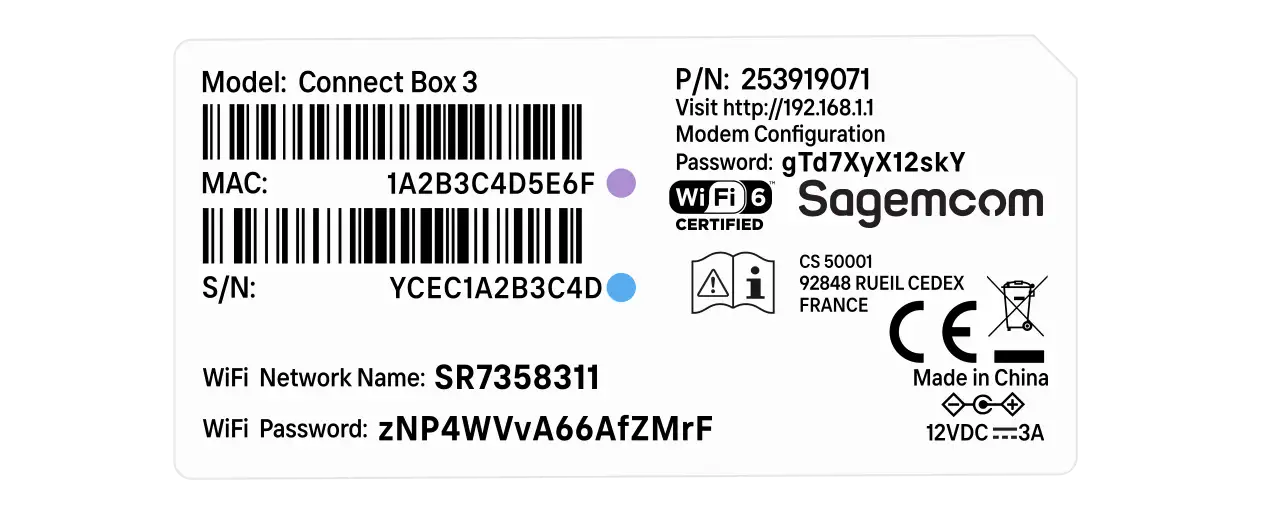
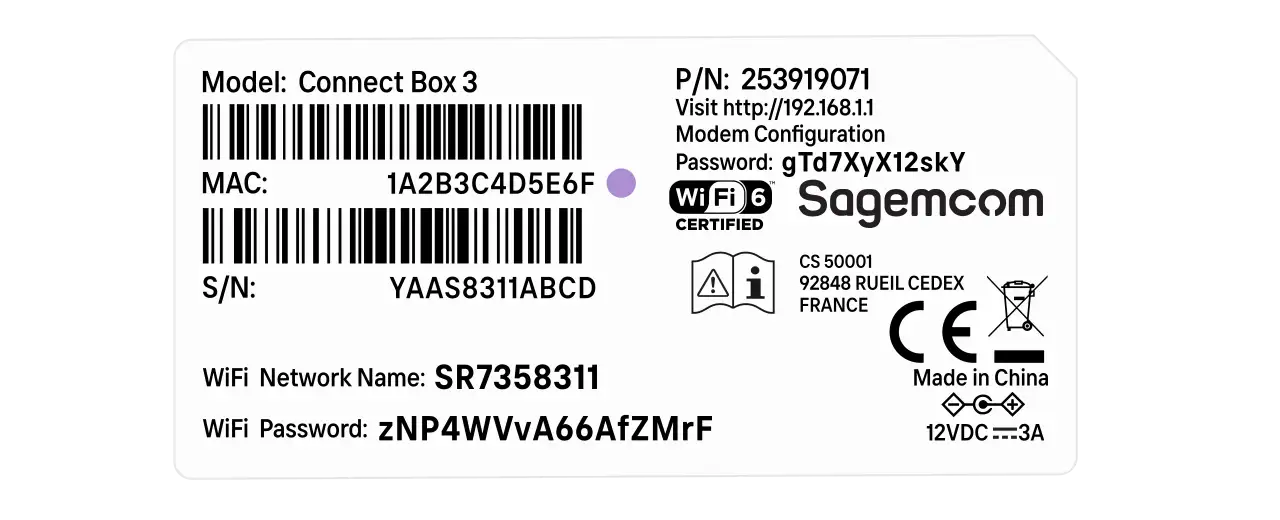
post 29: add Connect Box 3 Fiber

Changed region(s): [[0.3125, 0.5231, 0.5, 0.5846]]

diff --git a/docs/posts/masquerade-as-the-sunrise-connect-box-3-with-the-fs-xgs-onu-25-20ni.md b/docs/posts/masquerade-as-the-sunrise-connect-box-3-with-the-fs-xgs-onu-25-20ni.md
@@ -41,10 +41,9 @@ operator: Sunrise
     :   No. It is an SFU ONT (not an HGU) that converts Ethernet to PON; it does not provide Layer 7 gateway functions
         (NAT, DHCP, etc.) A separate gateway/router is required for internet access.
 
-    __Is the serial number the same as on the Home Fiber Box 2?__
+    __Does the XGS-ONU-25-20NI support VEIP?__
 
-    :   No. On the Home Fiber Box 2 the OLT authenticates the `SMBS`&hellip; value and not the `YCEC`&hellip; one. On the
-        {{ page.meta.ont }}, the value to use is the one labelled __ONU Serial Number__, which begins `YCEC`&hellip;.
+    :   No. The XGS-ONU-25-20NI does not support VEIP and will ONLY authenticate with an OLT over PPTP.
 
 ## Purchase Hardware
 
@@ -82,11 +81,17 @@ To masquerade as the {{ page.meta.ont }}, you will need its __ONU Serial Number_
 __ONU Serial Number__ is shown on the __Info__ page of its web interface at `http://192.168.1.1`, and the WAN MAC on its
 status page.
 
-!!! tip "The ONU Serial Number may not be labelled"
-    The label below only has `MAC:` and `S/N:` fields, and its `S/N:` begins `YAAS`&hellip;. Do not confuse it with the
-    __ONU Serial Number__ from the __Info__ page, which begins `YCEC`&hellip;.
+=== "Mislabelled Serial"
 
-![{{ page.meta.ont }} label]({{ page.meta.slug }}/{{ page.meta.ont | lower | replace(" ", "_") }}_label.webp){ class="nolightbox" }
+    !!! tip "The ONU Serial Number may not be labelled"
+        The label below only has `MAC:` and `S/N:` fields, and its `S/N:` begins `YAAS`&hellip;. Do not confuse it with the
+        __ONU Serial Number__ from the __Info__ page, which begins `YCEC`&hellip;.
+
+    ![{{ page.meta.ont }} label]({{ page.meta.slug }}/{{ page.meta.ont | lower | replace(" ", "_") }}_label.webp){ class="nolightbox" }
+
+=== "SMBS Serial"
+
+    ![{{ page.meta.ont }} label]({{ page.meta.slug }}/{{ page.meta.ont | lower | replace(" ", "_") }}_label_alt.webp){ class="nolightbox" }
 
 1.  Log in over telnet and open the `misc` menu.
 
@@ -102,14 +107,25 @@ status page.
 
 2.  Set the serial number and the [Registration ID].
 
-    !!! note "Reminder"
-        Replace `YCEC1A2B3C4D` and `314132423343344435453646` with the values from your own {{ page.meta.ont }}.
+    === "Mislablled Serial"
 
-    ``` sh
-    #ONT/system/misc> eqsn set "YCEC1A2B3C4D"
-    #ONT/system/misc> xgspon_regid set 314132423343344435453646
-    ```
+        !!! note "Reminder"
+            Replace `YCEC1A2B3C4D` and `314132423343344435453646` with the values from your own {{ page.meta.ont }}.
 
+        ``` sh
+        #ONT/system/misc> eqsn set "YCEC1A2B3C4D"
+        #ONT/system/misc> xgspon_regid set 314132423343344435453646
+        ```
+
+    === "SMBS Serial"
+
+        !!! note "Reminder"
+            Replace `SMBS09768311` and `314132423343344435453646` with the values from your own {{ page.meta.ont }}.
+
+        ``` sh
+        #ONT/system/misc> eqsn set "SMBS09768311"
+        #ONT/system/misc> xgspon_regid set 314132423343344435453646
+        ```
     !!! warning "The telnet login changes immediately"
         After `eqsn set`, the next telnet session needs the new serial number and the password derived from it.
 
